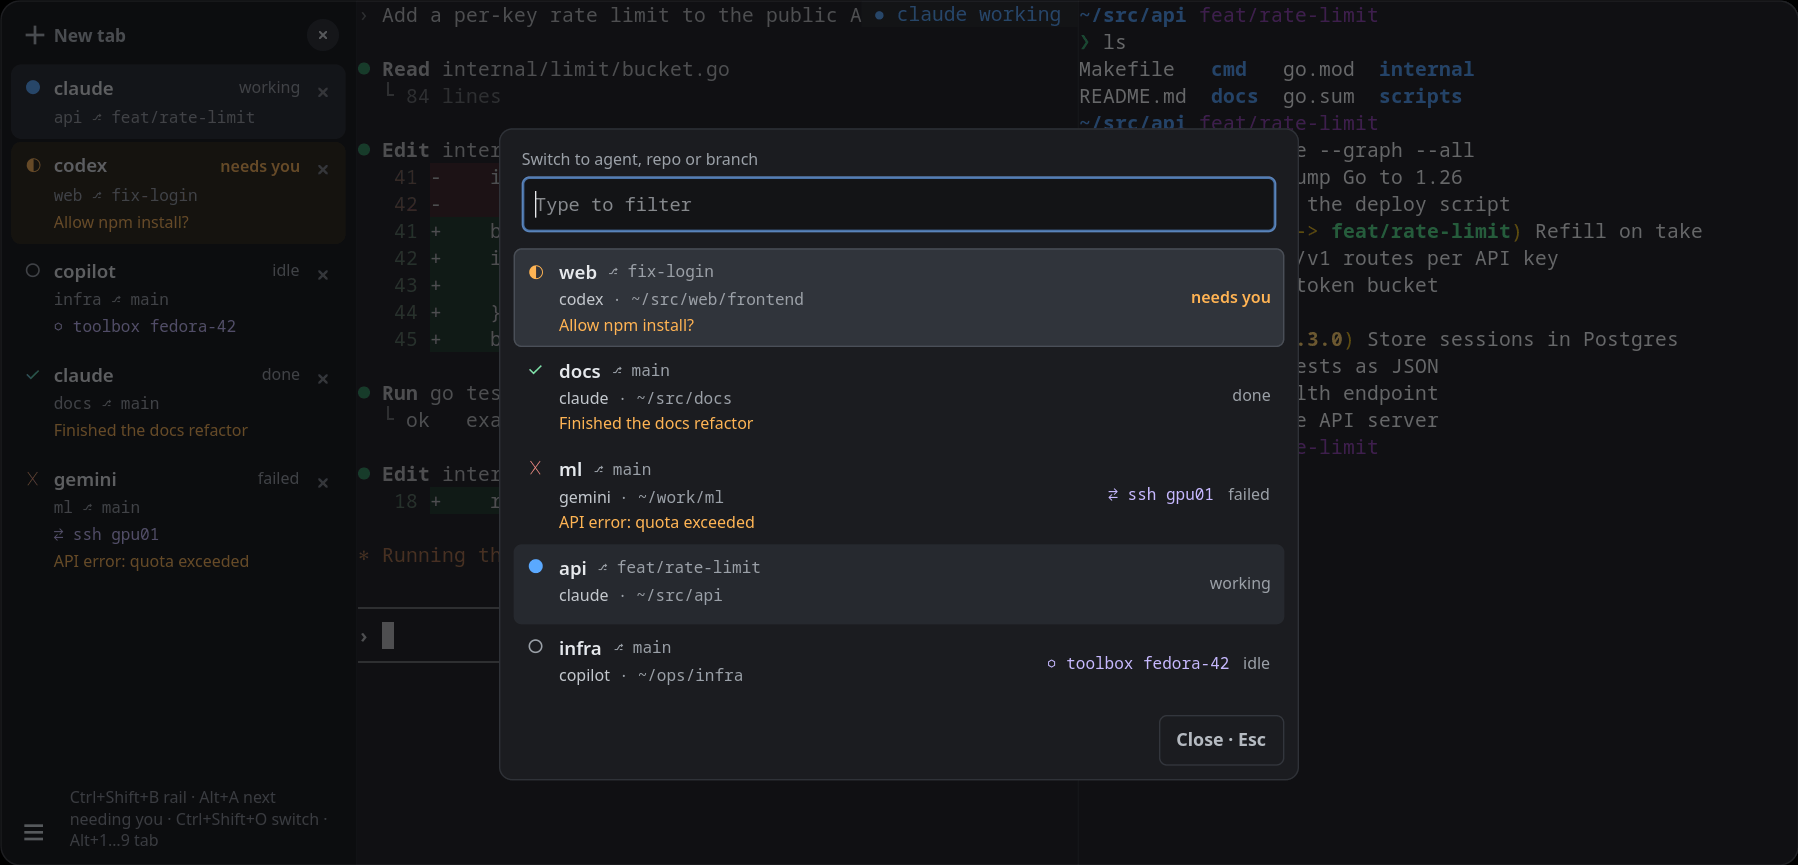
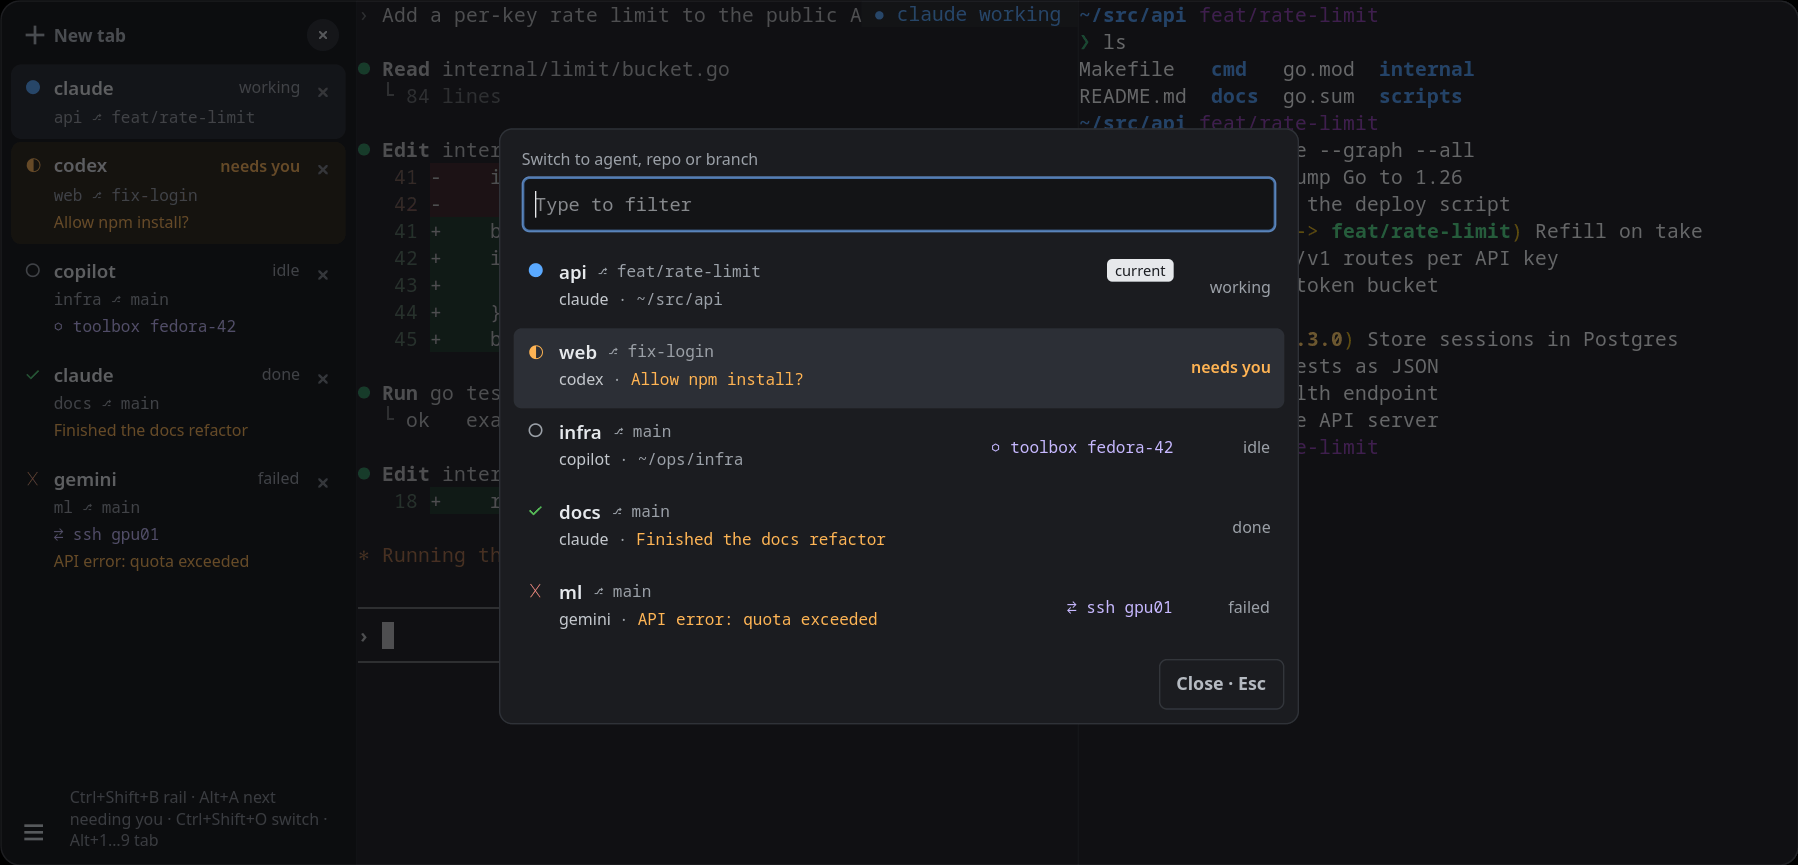
m Keep the switcher's rows in tab order and in place as states and notices change

diff --git a/cmd/bunk-gui/chrome.go b/cmd/bunk-gui/chrome.go
@@ -7,7 +7,6 @@ import (
 	"math"
 	"os"
 	"path/filepath"
-	"sort"
 	"strconv"
 	"strings"
 
@@ -111,6 +110,7 @@ button.switchrow .swtitle { font-weight: 600; color: #e6e8eb; }
 .swbranch { font-family: "Noto Sans Mono", monospace; font-size: 12px; color: #9aa0a8; }
 .swagent { font-size: 12px; color: #c4c8ce; }
 .swpath { font-family: "Noto Sans Mono", monospace; font-size: 12px; color: #9aa0a8; }
+.swpath.swnotice { color: #ffb454; }
 button.switchrow.cursor { background: #2c2f36; }
 button.switchclose { min-height: 36px; padding: 0 12px; border: 1px solid #34373e; border-radius: 6px; background: none;
 	color: #b4b9c1; box-shadow: none; margin-top: 4px; }
@@ -415,17 +415,27 @@ func (in tabInfo) switchTitle() *gtk.Box {
 }
 
 // switchDetail is a switcher row's second line: the agent, "+N" for the
-// agents in other panes, and the directory, cut in the middle.
+// agents in other panes, and the directory, cut in the middle. A notice
+// takes the directory's place, so the row keeps its height.
 func (in tabInfo) switchDetail() *gtk.Box {
 	box := gtk.NewBox(gtk.OrientationHorizontal, 6)
 	box.Append(label(in.agent, "swagent"))
 	if in.more > 0 {
 		box.Append(label(fmt.Sprintf("+%d", in.more), "more"))
 	}
-	if in.path != "" {
+	if in.notice != "" {
+		box.Append(label("·", "swpath"))
+		n := label(in.notice, "swpath", "swnotice")
+		n.SetEllipsize(pango.EllipsizeEnd)
+		n.SetMaxWidthChars(1) // fills the row without widening the switcher
+		n.SetXAlign(0)
+		n.SetHExpand(true)
+		box.Append(n)
+	} else if in.path != "" {
 		box.Append(label("·", "swpath"))
 		p := label(in.path, "swpath")
 		p.SetEllipsize(pango.EllipsizeMiddle)
+		p.SetMaxWidthChars(1)
 		p.SetXAlign(0)
 		p.SetHExpand(true)
 		box.Append(p)
@@ -1169,8 +1179,8 @@ var stateOrder = map[session.AgentState]int{
 	session.AgentNone: 5,
 }
 
-// openSwitcher shows the tab switcher: a filter field and the tabs, those
-// needing you first. The selected tab's row carries a "current" chip;
+// openSwitcher shows the tab switcher: a filter field and the tabs in
+// their order, which a status change never alters. The selected tab's row carries a "current" chip;
 // the cursor, a filled row like a list selection, starts on the first
 // match that is not the selected tab, so the switcher's key and Enter go
 // to another tab. Up and Down move the cursor; Enter picks its tab; Esc
@@ -1272,14 +1282,13 @@ func (sw *switcher) refresh() {
 	for c := sw.list.FirstChild(); c != nil; c = sw.list.FirstChild() {
 		sw.list.Remove(c)
 	}
-	// A status change reorders the rows; the cursor stays on its tab.
+	// The cursor stays on its tab when the filter keeps it.
 	var cur *Tab
 	if sw.cur < len(sw.shown) {
 		cur = sw.shown[sw.cur]
 	}
 	f := strings.ToLower(strings.TrimSpace(sw.entry.Text()))
 	infos := a.tabInfos()
-	sort.SliceStable(infos, func(i, j int) bool { return stateOrder[infos[i].state] < stateOrder[infos[j].state] })
 	sw.cur, sw.shown, sw.rows = -1, sw.shown[:0], sw.rows[:0]
 	other := -1 // the first row that is not the selected tab
 	for _, in := range infos {
@@ -1306,12 +1315,6 @@ func (sw *switcher) refresh() {
 		text.SetHExpand(true)
 		text.Append(in.switchTitle())
 		text.Append(in.switchDetail())
-		if in.notice != "" {
-			n := label(in.notice, "notice")
-			n.SetEllipsize(pango.EllipsizeEnd)
-			n.SetXAlign(0)
-			text.Append(n)
-		}
 		row.Append(text)
 		row.Append(label(in.loc, "loc"))
 		if in.active {
@@ -1320,6 +1323,8 @@ func (sw *switcher) refresh() {
 			row.Append(c)
 		}
 		st := label(in.look.label, "statelabel")
+		st.SetWidthChars(9) // "needs you": the row's text keeps its place as the state changes
+		st.SetXAlign(1)
 		if in.needs {
 			st.AddCSSClass("needs-fg")
 		}

diff --git a/cmd/bunk-gui/gui_test.go b/cmd/bunk-gui/gui_test.go
@@ -593,9 +593,9 @@ func TestGUITabDrag(t *testing.T) {
 }
 
 // TestGUITabsAndStatus: status from the test hook drives dots, labels,
-// locations and tints; the switcher sorts needs-you first, moves its
-// cursor with Up and Down (wrapping, kept on its tab when the rows
-// reorder) and filters by typed text; Alt+A visits tabs needing you in order; Alt+1…9 select
+// locations and tints; the switcher lists the tabs in order, keeps every
+// row in place as states and notices change, moves its cursor with Up
+// and Down (wrapping) and filters by typed text; Alt+A visits tabs needing you in order; Alt+1…9 select
 // tabs; a pane needing you gets the ring until it is focused; inactive
 // panes are dimmed.
 func TestGUITabsAndStatus(t *testing.T) {
@@ -616,16 +616,17 @@ func TestGUITabsAndStatus(t *testing.T) {
 			"wait switcher.open=true keyboard_focus=switcher",
 			"snap switcher",
 			"kbd down down",
-			"wait switcher.cursor=3",
+			"wait switcher.cursor=4",
 			"snap switcher-down",
 			"kbd up up up",
 			"wait switcher.cursor=1",
 			"snap switcher-wrap",
 			"kbd down down",
-			"wait switcher.cursor=4",
+			"wait switcher.cursor=3",
 			"status tab=4 state=idle",
-			"wait switcher.rows.1=3",
-			"snap switcher-reorder",
+			"status tab=3 state=working notice=Running the whole integration suite again, with a summary of every failure",
+			"wait tab.4.state=idle tab.3.notice~integration",
+			"snap switcher-status",
 			"kbd-type ma",
 			"wait switcher.filter=ma",
 			"snap switcher-typed",
@@ -726,18 +727,28 @@ func TestGUITabsAndStatus(t *testing.T) {
 		}
 	}
 
-	if s := g.snap("switcher"); !s.Switcher.Open || !slices.Equal(s.Switcher.Rows, []int{2, 4, 3, 1}) || s.KeyboardFocus != "switcher" {
-		t.Errorf("switcher: %+v, keyboard focus %q; want rows needs-you, failed, working, shell", s.Switcher, s.KeyboardFocus)
+	if s := g.snap("switcher"); !s.Switcher.Open || !slices.Equal(s.Switcher.Rows, []int{1, 2, 3, 4}) || s.KeyboardFocus != "switcher" {
+		t.Errorf("switcher: %+v, keyboard focus %q; want the tabs in order", s.Switcher, s.KeyboardFocus)
+	}
+	// State and notice changes leave every row where it was.
+	before, after := g.snap("switcher").Switcher.Rects, g.snap("switcher-status").Switcher.Rects
+	if len(before) != 4 || len(after) != 4 {
+		t.Fatalf("switcher rows: %d before, %d after the status changes", len(before), len(after))
+	}
+	for i := range before {
+		if before[i] == nil || after[i] == nil || *before[i] != *after[i] {
+			t.Errorf("switcher row %d moved: %+v, then %+v", i+1, before[i], after[i])
+		}
 	}
 	for label, want := range map[string]struct {
 		rows   []int
 		cursor int
 	}{
-		"switcher":         {[]int{2, 4, 3, 1}, 2},
-		"switcher-down":    {[]int{2, 4, 3, 1}, 3},
-		"switcher-wrap":    {[]int{2, 4, 3, 1}, 1},
-		"switcher-reorder": {[]int{2, 3, 4, 1}, 4},
-		"switcher-typed":   {[]int{3, 4}, 3},
+		"switcher":        {[]int{1, 2, 3, 4}, 2},
+		"switcher-down":   {[]int{1, 2, 3, 4}, 4},
+		"switcher-wrap":   {[]int{1, 2, 3, 4}, 1},
+		"switcher-status": {[]int{1, 2, 3, 4}, 3},
+		"switcher-typed":  {[]int{3, 4}, 3},
 	} {
 		if s := g.snap(label); !slices.Equal(s.Switcher.Rows, want.rows) || s.Switcher.Cursor != want.cursor || s.KeyboardFocus != "switcher" {
 			t.Errorf("%s: switcher %+v, keyboard focus %q; want rows %v, cursor on tab %d", label, s.Switcher, s.KeyboardFocus, want.rows, want.cursor)

diff --git a/cmd/bunk-gui/report.go b/cmd/bunk-gui/report.go
@@ -417,6 +417,8 @@ type switchReport struct {
 	// when the filter hides it.
 	Current int `json:"current"`
 	Cursor  int `json:"cursor"` // tab index of the row Enter picks; 0 with no rows
+	// Rects are the rows' places, in the order shown.
+	Rects []*rectReport `json:"rects"`
 }
 
 var stateName = map[session.AgentState]string{
@@ -578,6 +580,7 @@ func (a *App) snapshot(label string) *uiSnapshot {
 		s.Switcher.Open, s.Switcher.Filter = true, sw.entry.Text()
 		for i, t := range sw.shown {
 			s.Switcher.Rows = append(s.Switcher.Rows, a.tabIndex(t)+1)
+			s.Switcher.Rects = append(s.Switcher.Rects, a.widgetRect(g, sw.rows[i]))
 			if i == sw.cur {
 				s.Switcher.Cursor = a.tabIndex(t) + 1
 			}

diff --git a/cmd/bunk-gui/screenshots_test.go b/cmd/bunk-gui/screenshots_test.go
@@ -157,8 +157,8 @@ func TestGUIScreenshots(t *testing.T) {
 			t.Errorf("shell pane lacks %q:\n%s", s, shell)
 		}
 	}
-	if s := g.snap("switcher"); !s.Switcher.Open || len(s.Switcher.Rows) != len(want) || s.Switcher.Rows[0] != 2 {
-		t.Errorf("switcher: %+v; want all tabs, needs-you first", s.Switcher)
+	if s := g.snap("switcher"); !s.Switcher.Open || len(s.Switcher.Rows) != len(want) || s.Switcher.Rows[0] != 1 {
+		t.Errorf("switcher: %+v; want all tabs in order", s.Switcher)
 	}
 	if s := g.snap("bar"); s.Layout != "bar" {
 		t.Errorf("bar: layout %q", s.Layout)

diff --git a/AGENTS.md b/AGENTS.md
@@ -514,9 +514,11 @@ its default; Design Decisions says where the defaults come from.
     removes it, and + adds one. A row's chips are rebuilt only when its
     keys change, because a button replaced under the pointer can miss the
     next click.
-  - The switcher's Up and Down move a cursor, which starts on the first
-    match and stays on its tab when a status change reorders the rows;
-    Enter opens its tab.
+  - The switcher lists the tabs in their order (`App.tabs`), and a
+    status change never moves a row: a notice takes the directory's
+    place on the second line, and the state label has a fixed width.
+    Up and Down move a cursor, which starts on the first match and stays
+    on its tab as rows are rebuilt; Enter opens its tab.
 
 - bunk-gui's pointer and focus handling matches bunk's TUI. The
   scrollbar thumb can be dragged while it shows (`grabThumb`). A selection

diff --git a/README.md b/README.md
@@ -38,11 +38,11 @@ bunk-gui draws each pane into a texture at the widget's device-pixel size, so te
 
 <table>
 <tr>
-<td width="50%"><img src="assets/gui-switcher.png" alt="Tab switcher listing needs-you first"></td>
+<td width="50%"><img src="assets/gui-switcher.png" alt="Tab switcher listing every tab in order"></td>
 <td width="50%"><img src="assets/gui-bar.png" alt="Tabs in a bar on top"></td>
 </tr>
 <tr>
-<td>Switcher (Ctrl+Shift+O): each tab's repo, branch, agent and folder, needs-you first; filter by agent, repo or branch</td>
+<td>Switcher (Ctrl+Shift+O): each tab's repo, branch, agent and folder, in tab order; filter by agent, repo or branch</td>
 <td>Tabs on top: <code>tabs = "bar"</code></td>
 </tr>
 <tr>
